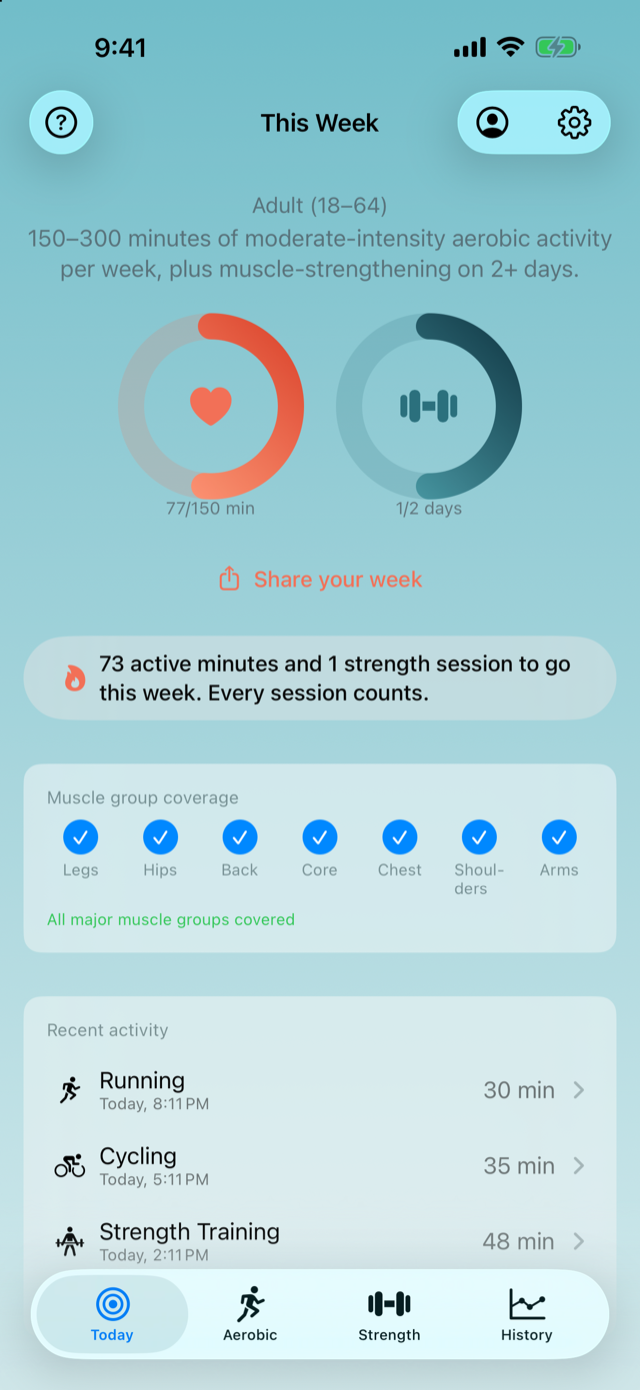
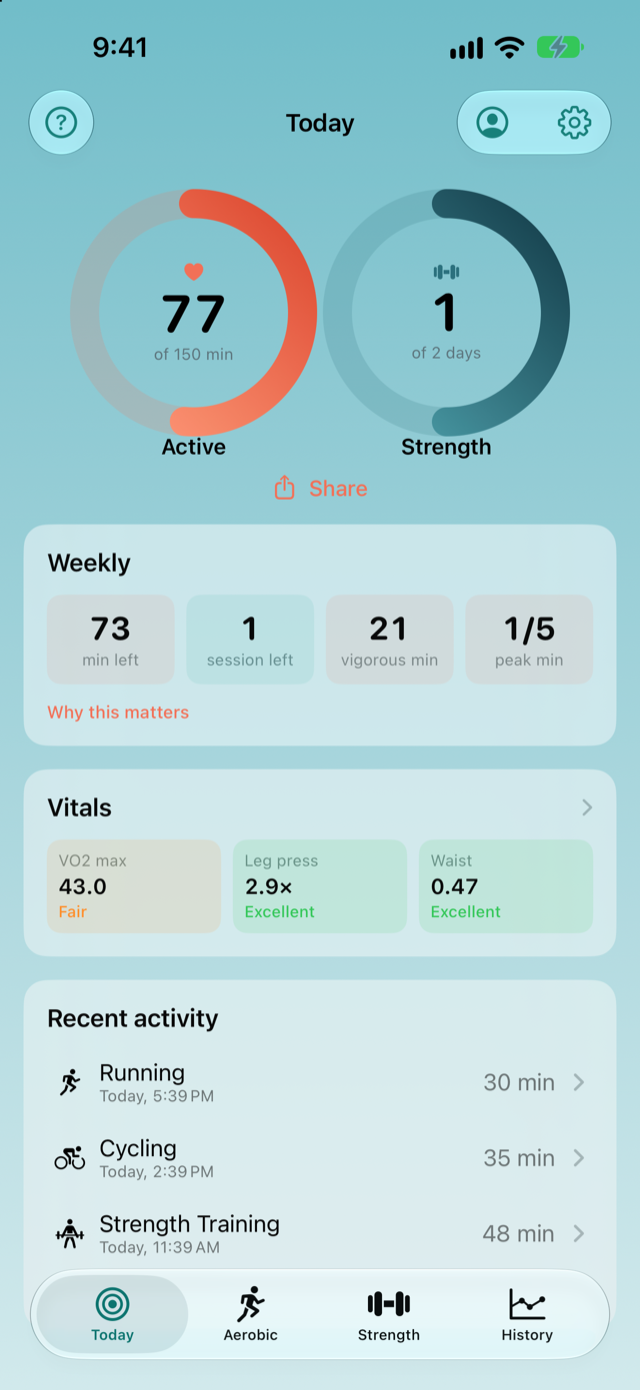
Update site for 1.4: Vitals, Coach mode, new screenshots and colors
- Privacy policy: list all Health data read (adds VO2 max, waist, and the
  rest), waist in the profile; last updated Oct 31, 2026.
- Homepage: Vitals and Coach mode cards; Action Button, Smart Stack, and
  sets-by-movement folded into existing cards; new screenshots (Vitals
  replaces the exercise list).
- Colors match the app's refreshed look and the App Store art.
- Support: Vitals and Coach mode FAQs; quick-start answer covers the Action
  Button.

diff --git a/support/index.html b/support/index.html
@@ -7,7 +7,7 @@
 <meta name="description" content="Support and frequently asked questions for the Physical fitness app.">
 <link rel="canonical" href="https://ryansan2001-source.github.io/physical/support/">
 <meta name="theme-color" content="#ffffff" media="(prefers-color-scheme: light)">
-<meta name="theme-color" content="#0c1620" media="(prefers-color-scheme: dark)">
+<meta name="theme-color" content="#0b1a20" media="(prefers-color-scheme: dark)">
 <meta property="og:type" content="website">
 <meta property="og:site_name" content="Physical">
 <meta property="og:title" content="Physical — Support">
@@ -74,8 +74,14 @@
     <h3>What is the "workout counted" notification?</h3>
     <p>When you log a workout in another app and it saves to Apple Health, Physical can post a quick heads-up that it counted toward your weekly rings — so you don't have to open the app to know it landed. It's a local notification, off unless you turn it on, and you control it under <strong>Settings</strong> → <strong>Notifications</strong> in the app.</p>
 
-    <h3>How do I start a workout from the Home Screen?</h3>
-    <p>Touch and hold the Physical app icon on your Home Screen to get quick actions for starting a run, a walk, or a strength session, or jumping straight to this week — no need to open the app first.</p>
+    <h3>How do I start a workout quickly?</h3>
+    <p>Touch and hold the Physical app icon for quick actions to start a run, a walk, or a strength session, or jump straight to this week. On iPhone and Apple Watch with an Action Button, you can also assign it to start a workout: open Settings, then Action Button, choose Shortcut, then Physical.</p>
+
+    <h3>What are Vitals, and why does VO2 max say “Add data”?</h3>
+    <p>Vitals shows three fitness markers linked to a longer, healthier life: VO2 max, leg press compared with your body weight, and waist compared with your height. Each is ranked into four zones from population research. VO2 max comes from the Cardio Fitness estimates Apple Watch records during outdoor walks, runs, and hikes, so it shows “Add data” until Apple Health has one. Leg press comes from leg press sets you log in Physical, and you can enter your waist by hand on the Vitals screen. Vitals is general fitness information, not a medical diagnosis.</p>
+
+    <h3>What is Coach mode?</h3>
+    <p>Coach mode is optional and off by default. Turn it on in Settings or on the Vitals screen, and Physical builds a weekly plan around your lowest vital, suggests weights for your strength sessions based on your past workouts, and can send interval cues to your Apple Watch. Turn it off anytime.</p>
 
     <h3>Can I export my data, or share my progress?</h3>
     <p>Both. Export your logged workouts to a CSV file anytime from <strong>Settings</strong> (it opens the iOS share sheet, so you decide where it goes). You can also turn your weekly rings into a shareable image from the dashboard to post wherever you like. Nothing is sent to us either way.</p>
@@ -118,7 +124,9 @@
     { "@type": "Question", "name": "How do I use Physical on my Apple Watch?", "acceptedAnswer": { "@type": "Answer", "text": "Install the companion app on your paired Apple Watch. Start a workout on the Watch and Physical streams your live heart rate and intensity zones to your iPhone, including the Lock Screen and Dynamic Island Live Activity. Add the ring complication to your watch face for at-a-glance progress." } },
     { "@type": "Question", "name": "Can I turn the weekly reminder on or off?", "acceptedAnswer": { "@type": "Answer", "text": "Yes. The optional weekly reminder is a local notification you control with a toggle in Settings, or in iOS Settings, then Notifications, then Physical. Physical also has an optional workout counted notification; both are local, and it sends nothing else." } },
     { "@type": "Question", "name": "What is the workout counted notification?", "acceptedAnswer": { "@type": "Answer", "text": "When you log a workout in another app and it saves to Apple Health, Physical can post a quick heads-up that it counted toward your weekly rings, so you don't have to open the app to know it landed. It's a local notification, off unless you turn it on, and you control it under Settings, then Notifications, in the app." } },
-    { "@type": "Question", "name": "How do I start a workout from the Home Screen?", "acceptedAnswer": { "@type": "Answer", "text": "Touch and hold the Physical app icon on your Home Screen to get quick actions for starting a run, a walk, or a strength session, or jumping straight to this week — no need to open the app first." } },
+    { "@type": "Question", "name": "How do I start a workout quickly?", "acceptedAnswer": { "@type": "Answer", "text": "Touch and hold the Physical app icon for quick actions to start a run, a walk, or a strength session, or jump straight to this week. On iPhone and Apple Watch with an Action Button, you can also assign it to start a workout: open Settings, then Action Button, choose Shortcut, then Physical." } },
+    { "@type": "Question", "name": "What are Vitals, and why does VO2 max say “Add data”?", "acceptedAnswer": { "@type": "Answer", "text": "Vitals shows three fitness markers linked to a longer, healthier life: VO2 max, leg press compared with your body weight, and waist compared with your height. Each is ranked into four zones from population research. VO2 max comes from the Cardio Fitness estimates Apple Watch records during outdoor walks, runs, and hikes, so it shows “Add data” until Apple Health has one. Leg press comes from leg press sets you log in Physical, and you can enter your waist by hand on the Vitals screen. Vitals is general fitness information, not a medical diagnosis." } },
+    { "@type": "Question", "name": "What is Coach mode?", "acceptedAnswer": { "@type": "Answer", "text": "Coach mode is optional and off by default. Turn it on in Settings or on the Vitals screen, and Physical builds a weekly plan around your lowest vital, suggests weights for your strength sessions based on your past workouts, and can send interval cues to your Apple Watch. Turn it off anytime." } },
     { "@type": "Question", "name": "Can I export my data, or share my progress?", "acceptedAnswer": { "@type": "Answer", "text": "Both. Export your logged workouts to a CSV file anytime from Settings (it opens the iOS share sheet, so you decide where it goes). You can also turn your weekly rings into a shareable image from the dashboard to post wherever you like. Nothing is sent to us either way." } },
     { "@type": "Question", "name": "I reinstalled Physical and my templates were gone. What happened?", "acceptedAnswer": { "@type": "Answer", "text": "As of the latest version, your saved strength templates and profile back up automatically to iCloud (if your device is signed in), so reinstalling the app or setting up a new device restores them. If you reinstalled an older version, or aren't signed into iCloud, those local-only items don't carry over." } },
     { "@type": "Question", "name": "Does my data sync across my devices?", "acceptedAnswer": { "@type": "Answer", "text": "Your saved strength templates and profile sync via iCloud to any other device signed into the same Apple Account. Logged workouts already sync everywhere through Apple Health, independent of this. Your Apple Watch gets your templates directly from your iPhone, not from iCloud." } },

diff --git a/privacy/index.html b/privacy/index.html
@@ -7,7 +7,7 @@
 <meta name="description" content="Privacy policy for the Physical fitness app. Physical collects nothing; your data stays on your device or in your own iCloud account.">
 <link rel="canonical" href="https://ryansan2001-source.github.io/physical/privacy/">
 <meta name="theme-color" content="#ffffff" media="(prefers-color-scheme: light)">
-<meta name="theme-color" content="#0c1620" media="(prefers-color-scheme: dark)">
+<meta name="theme-color" content="#0b1a20" media="(prefers-color-scheme: dark)">
 <meta property="og:type" content="website">
 <meta property="og:site_name" content="Physical">
 <meta property="og:title" content="Physical — Privacy Policy">
@@ -41,7 +41,7 @@
 <main class="page">
   <div class="container">
     <h1>Privacy Policy</h1>
-    <p class="updated"><strong>Effective date:</strong> July 1, 2026 &nbsp;·&nbsp; <strong>Last updated:</strong> July 31, 2026</p>
+    <p class="updated"><strong>Effective date:</strong> July 1, 2026 &nbsp;·&nbsp; <strong>Last updated:</strong> October 31, 2026</p>
 
     <p>This Privacy Policy explains how the <strong>Physical</strong> app ("Physical," "the app," "we," "us") handles your information. Physical is a fitness app built around the 2018 U.S. Physical Activity Guidelines (HHS). It helps you track your weekly aerobic and strength activity against personalized targets.</p>
 
@@ -51,14 +51,14 @@
     <p>Physical works entirely on your device. The following information is used only on your iPhone (and paired Apple Watch) and is never sent to us or to anyone else:</p>
 
     <h3>Health and fitness data (Apple Health)</h3>
-    <p>With your permission, Physical reads workouts and heart-rate data from Apple Health, and writes the strength and aerobic workouts you log back to Apple Health. This data is used solely to calculate your progress toward your activity goals and to display intensity zones during a workout.</p>
+    <p>With your permission, Physical reads workouts (including outdoor workout routes), heart rate, resting heart rate, active energy, step count, body weight, VO2 max (Cardio Fitness), and waist circumference from Apple Health, and writes the strength and aerobic workouts you log back to Apple Health. This data is used solely to calculate your progress toward your activity goals, to display intensity zones during a workout, and to show your Vitals (fitness markers such as VO2 max and waist-to-height ratio).</p>
     <p>Health data is provided through Apple's HealthKit framework, stays on your device, and is governed by Apple's privacy protections. Physical does not transmit your Health data off the device, and we never receive it. You can grant or revoke this access at any time in <strong>Settings → Privacy &amp; Security → Health → Physical</strong>, or within Apple Health.</p>
 
     <h3>Location during outdoor workouts (optional)</h3>
     <p>If you start an outdoor workout on your Apple Watch (such as a run, walk, bike, or hike) and grant location access, Physical records the GPS route for that workout so it can be shown as a map in Apple Fitness and Apple Health. Location is used only while a workout is active, using while-in-use access, and the route is written directly to that workout in Apple Health. Physical does not transmit your location off the device, and we never receive it. You can grant or revoke this access at any time in <strong>Settings → Privacy &amp; Security → Location Services</strong>.</p>
 
     <h3>Your profile</h3>
-    <p>The profile you enter, such as date of birth/age, biological sex, weight, height, pregnancy or postpartum status, and resting heart rate, is used to determine which guideline targets apply to you. This information is stored on your device and, if iCloud is enabled, backed up to your iCloud account as described below; it is never sent to us.</p>
+    <p>The profile you enter, such as date of birth/age, biological sex, weight, height, pregnancy or postpartum status, resting heart rate, and waist measurement (if you enter one), is used to determine which guideline targets apply to you and to calculate your Vitals. This information is stored on your device and, if iCloud is enabled, backed up to your iCloud account as described below; it is never sent to us.</p>
 
     <h3>Saved templates and profile backup (iCloud, optional)</h3>
     <p>If your device is signed into iCloud, Physical backs up your saved strength templates and your profile information to your iCloud account, using Apple's iCloud Key-Value Storage. This lets your templates and profile survive deleting and reinstalling the app, and keeps them in sync across your other devices signed into the same iCloud account.</p>

diff --git a/index.html b/index.html
@@ -7,7 +7,7 @@
 <meta name="description" content="Physical tracks your weekly aerobic and strength goals from national health guidelines — not step counts. Free 7-day trial, then subscribe or unlock for life. No account, no ads, no tracking.">
 <link rel="canonical" href="https://ryansan2001-source.github.io/physical/">
 <meta name="theme-color" content="#ffffff" media="(prefers-color-scheme: light)">
-<meta name="theme-color" content="#0c1620" media="(prefers-color-scheme: dark)">
+<meta name="theme-color" content="#0b1a20" media="(prefers-color-scheme: dark)">
 
 <!-- Open Graph / Facebook / iMessage -->
 <meta property="og:type" content="website">
@@ -72,9 +72,19 @@
         <p>Weekly aerobic and strength goals drawn from the 2018 U.S. Physical Activity Guidelines, tailored to you — not a generic "10k steps."</p>
       </div>
       <div class="card">
+        <div class="ic" aria-hidden="true">🩺</div>
+        <h3>Vitals</h3>
+        <p>See your VO2 max, leg strength, and waist-to-height ratio, each ranked into four zones from population research, so you know what to work on first.</p>
+      </div>
+      <div class="card">
+        <div class="ic" aria-hidden="true">🧭</div>
+        <h3>Coach mode</h3>
+        <p>Turn it on for a weekly plan built around your lowest vital, suggested weights for your strength sessions, and interval cues on Apple Watch.</p>
+      </div>
+      <div class="card">
         <div class="ic" aria-hidden="true">📱</div>
-        <h3>Widget &amp; Watch complication</h3>
-        <p>A Home Screen widget and an Apple Watch complication show the same rings at a glance, without opening the app.</p>
+        <h3>Widget, complication &amp; Smart Stack</h3>
+        <p>A Home Screen widget and an Apple Watch complication show your rings at a glance, and they appear in the Smart Stack while you work out.</p>
       </div>
       <div class="card">
         <div class="ic" aria-hidden="true">🏝</div>
@@ -93,8 +103,8 @@
       </div>
       <div class="card">
         <div class="ic" aria-hidden="true">⚡</div>
-        <h3>Start from the Home Screen</h3>
-        <p>Touch and hold the app icon for quick actions — jump straight into a run, a walk, or a strength session without opening the app first.</p>
+        <h3>Start in one press</h3>
+        <p>Use the Action Button on iPhone or Apple Watch, or touch and hold the app icon for quick actions, to jump straight into a run, a walk, or a strength session.</p>
       </div>
       <div class="card">
         <div class="ic" aria-hidden="true">🏁</div>
@@ -114,7 +124,7 @@
       <div class="card">
         <div class="ic" aria-hidden="true">🏋</div>
         <h3>Strength logging</h3>
-        <p>Log strength sessions on iPhone or Apple Watch with muscle-group coverage tracking, and see your weekly history against the target line.</p>
+        <p>Log strength sessions on iPhone or Apple Watch with muscle-group coverage and weekly sets by movement: push, pull, squat, and hinge. Start from a ready-made full-body plan in one tap.</p>
       </div>
       <div class="card">
         <div class="ic" aria-hidden="true">☁</div>
@@ -164,11 +174,11 @@
   <div class="container">
     <div class="section-head">
       <h2>See it in action</h2>
-      <p>Your week at a glance, from guideline targets to every logged set.</p>
+      <p>Your week at a glance, from guideline targets and Vitals to every logged set.</p>
     </div>
     <div class="shots">
       <figure class="shot"><img src="assets/screenshots/dashboard.png" alt="Physical dashboard showing weekly aerobic and strength rings" loading="lazy"><figcaption>Your weekly rings</figcaption></figure>
-      <figure class="shot"><img src="assets/screenshots/exercises.png" alt="Exercise library organized by muscle group" loading="lazy"><figcaption>Full exercise library</figcaption></figure>
+      <figure class="shot"><img src="assets/screenshots/vitals.png" alt="Vitals screen showing VO2 max and leg press zones" loading="lazy"><figcaption>Your Vitals</figcaption></figure>
       <figure class="shot"><img src="assets/screenshots/strength.png" alt="Logging a strength workout set by set" loading="lazy"><figcaption>Log every set</figcaption></figure>
       <figure class="shot"><img src="assets/screenshots/history.png" alt="History charts with weekly target lines" loading="lazy"><figcaption>Progress over time</figcaption></figure>
     </div>

diff --git a/assets/styles.css b/assets/styles.css
@@ -1,22 +1,23 @@
-/* Physical — shared site styles
-   Brand palette mirrors the app (Shared/Sharing/RingStyle.swift,
-   PhysicalApp/PhysicalApp.swift): coral aerobic, teal strength, deep teal/navy. */
+/* Physical: shared site styles
+   Brand palette mirrors the app (Shared/Sharing/RingStyle.swift, AccentColor and
+   AppBackground colorsets) and the App Store art: coral aerobic, teal strength,
+   teal-to-navy brand gradient. */
 
 :root {
   --coral: #F27057;
   --coral-strong: #E85A3F;
   --teal: #2EAD9E;
-  --deep-teal: #215C63;
-  --navy: #0F2133;
+  --deep-teal: #17807A;   /* app AccentColor (light); 4.8:1 with white */
+  --navy: #0F1C38;
 
   --bg: #ffffff;
-  --bg-alt: #f4f7f8;
+  --bg-alt: #eaf4f5;
   --card: #ffffff;
   --text: #14232b;
   --text-soft: #4d626c;
-  --border: #e2e9ec;
-  --hero-from: #215C63;
-  --hero-to: #0F2133;
+  --border: #d8e8ea;
+  --hero-from: #126678;    /* same gradient as the App Store screenshots */
+  --hero-to: #0F1C38;
   --hero-text: #eef6f6;
   --shadow: 0 6px 24px rgba(15, 33, 51, 0.08);
   --radius: 16px;
@@ -25,14 +26,14 @@
 
 @media (prefers-color-scheme: dark) {
   :root {
-    --bg: #0c1620;
-    --bg-alt: #101f2a;
-    --card: #14232f;
+    --bg: #0b1a20;
+    --bg-alt: #0f2730;
+    --card: #143039;
     --text: #e8eef1;
     --text-soft: #a5b6c0;
-    --border: #22323f;
-    --hero-from: #143c42;
-    --hero-to: #08111b;
+    --border: #1f3d47;
+    --hero-from: #0f4552;
+    --hero-to: #08121f;
     --hero-text: #eef6f6;
     --shadow: 0 6px 24px rgba(0, 0, 0, 0.35);
   }
@@ -54,7 +55,7 @@ body {
 img { max-width: 100%; display: block; }
 
 a { color: var(--deep-teal); }
-@media (prefers-color-scheme: dark) { a { color: var(--teal); } }
+@media (prefers-color-scheme: dark) { a { color: #54CCBD; } }   /* app AccentColor (dark) */
 
 .container {
   max-width: var(--maxw);
@@ -186,7 +187,7 @@ section.alt { background: var(--bg-alt); }
 }
 .price-card.featured { border: 2px solid var(--teal); position: relative; }
 .price-card .badge {
-  display: inline-block; background: var(--teal); color: #fff;
+  display: inline-block; background: var(--deep-teal); color: #fff;
   font-size: 12px; font-weight: 800; letter-spacing: 0.02em;
   padding: 4px 12px; border-radius: 999px; margin-bottom: 14px;
 }
@@ -194,7 +195,8 @@ section.alt { background: var(--bg-alt); }
 .price-card .amount { font-size: 2.2rem; font-weight: 800; color: var(--deep-teal); letter-spacing: -0.02em; }
 @media (prefers-color-scheme: dark) { .price-card .amount { color: var(--teal); } }
 .price-card .amount span { font-size: 0.95rem; font-weight: 600; color: var(--text-soft); }
-.price-card .trial { color: var(--teal); font-weight: 600; font-size: 14px; margin: 8px 0 0; }
+.price-card .trial { color: var(--deep-teal); font-weight: 600; font-size: 14px; margin: 8px 0 0; }
+@media (prefers-color-scheme: dark) { .price-card .trial { color: #54CCBD; } }
 .price-card p.note { color: var(--text-soft); font-size: 14px; margin: 10px 0 0; }
 .price-foot { text-align: center; color: var(--text-soft); font-size: 14px; margin: 28px auto 0; max-width: 640px; }
 
